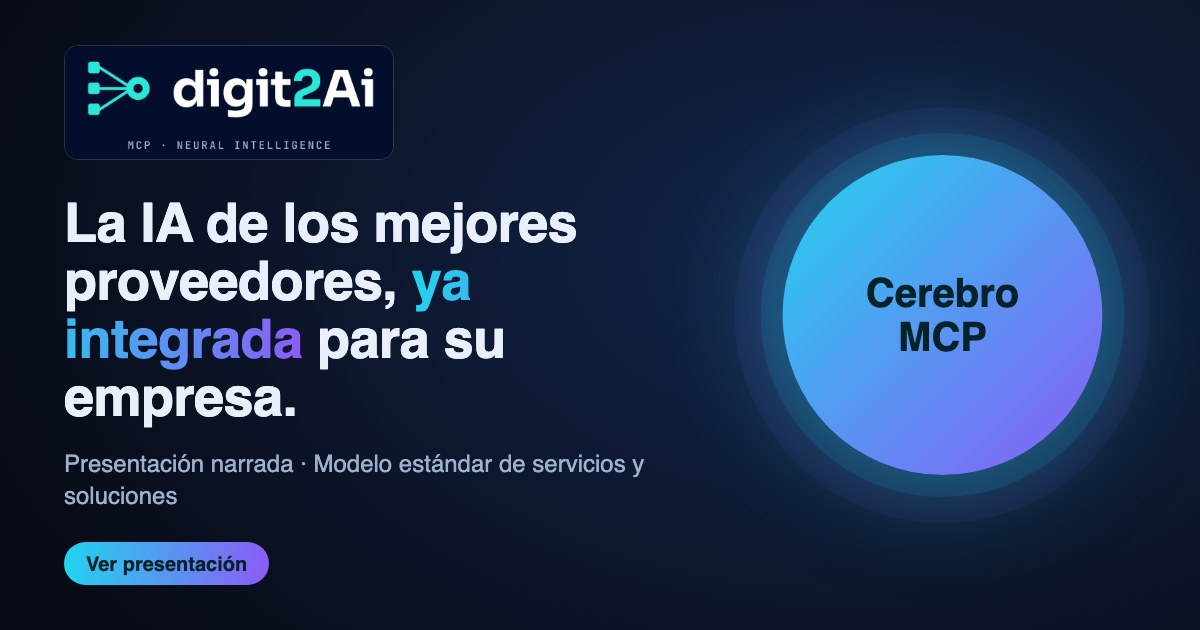
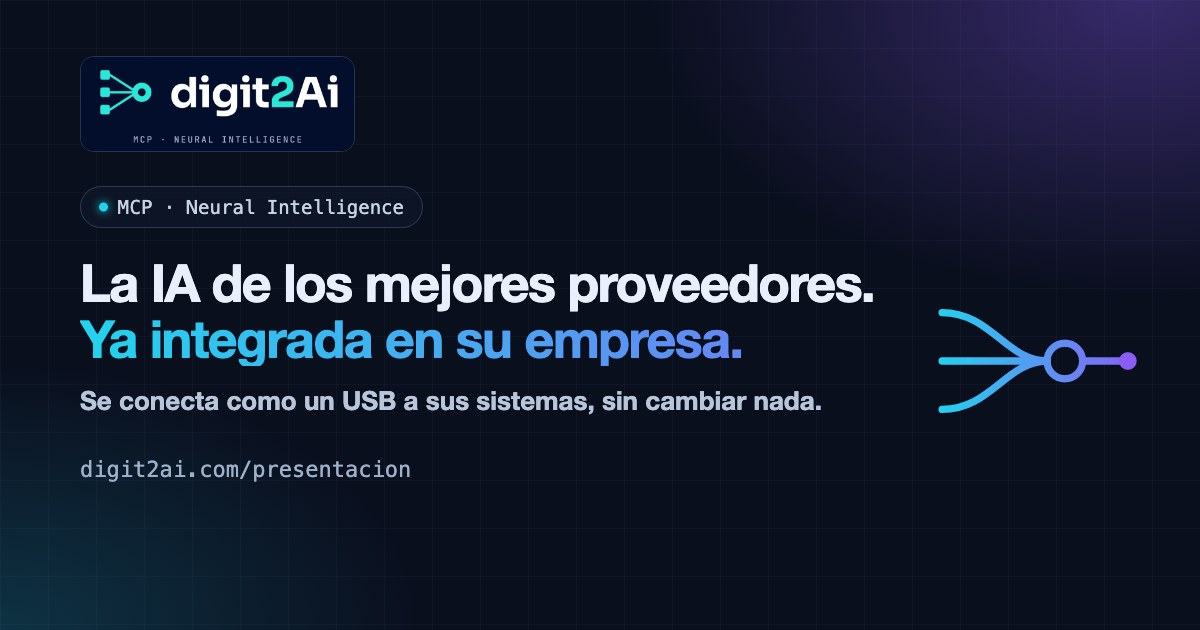
feat(presentacion): preview image redrawn in the Synthex style

diff --git a/public/mcp/presentacion/index.html b/public/mcp/presentacion/index.html
@@ -12,13 +12,13 @@
 <meta property="og:title" content="Digit2AI MCP Neural · Presentación">
 <meta property="og:description" content="La IA de los mejores proveedores, ya integrada para su empresa. Presentación narrada de nuestro modelo estándar de servicios y soluciones.">
 <meta property="og:url" content="https://digit2ai.com/presentacion">
-<meta property="og:image" content="https://aiagent.ringlypro.com/mcp/presentacion/og.jpg">
-<meta property="og:image:secure_url" content="https://aiagent.ringlypro.com/mcp/presentacion/og.jpg">
+<meta property="og:image" content="https://aiagent.ringlypro.com/mcp/presentacion/og.jpg?v=2">
+<meta property="og:image:secure_url" content="https://aiagent.ringlypro.com/mcp/presentacion/og.jpg?v=2">
 <meta property="og:image:type" content="image/jpeg">
 <meta property="og:image:width" content="1200">
 <meta property="og:image:height" content="630">
 <meta name="twitter:card" content="summary_large_image">
-<meta name="twitter:image" content="https://aiagent.ringlypro.com/mcp/presentacion/og.jpg">
+<meta name="twitter:image" content="https://aiagent.ringlypro.com/mcp/presentacion/og.jpg?v=2">
 <link rel="icon" href="../logo.png">
 <link rel="preload" as="image" href="../logo.png">
 <style>html,body{background:#070b16}</style>
